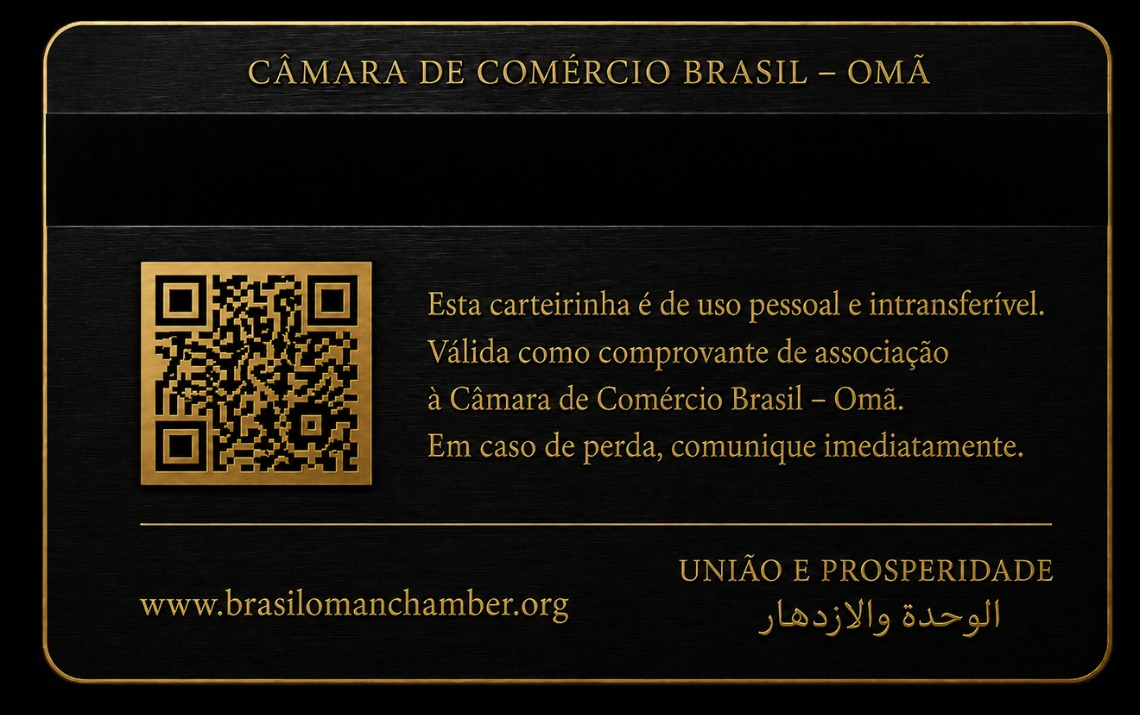
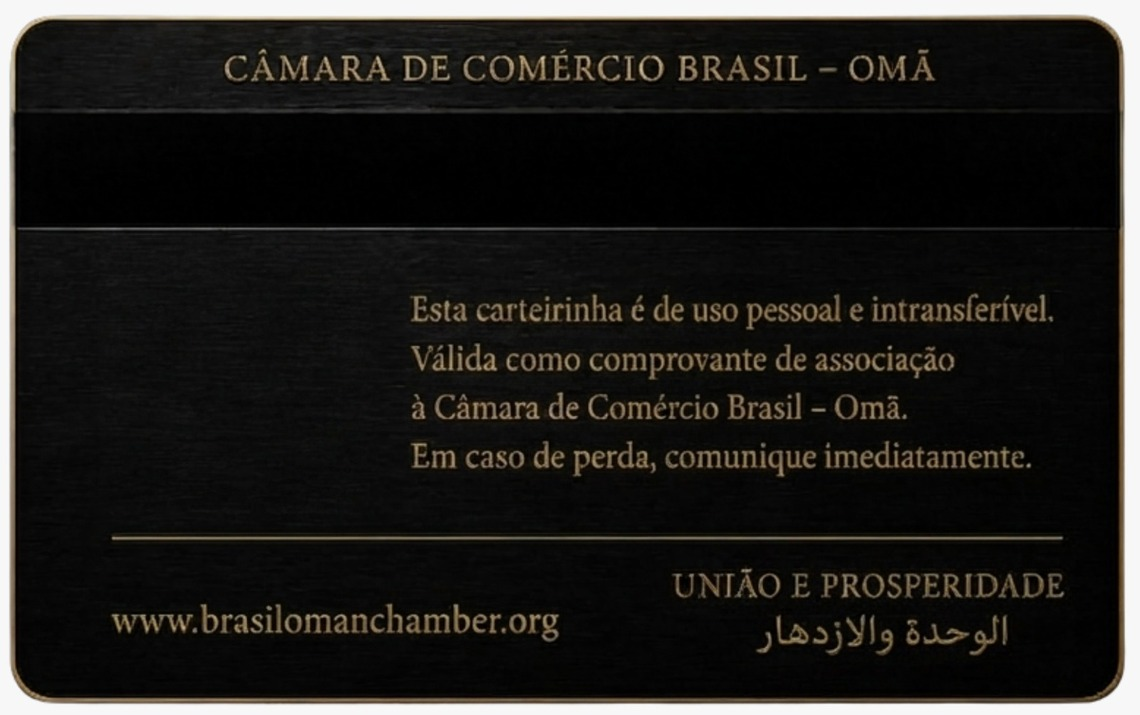
Organiza o cartão digital: verso novo (sem QR de exemplo), texto da frente menor e em preto, e corrige QR sumindo na prévia do certificado
- Novo verso dos 3 cartões (Gold/Black/Platinum) — arte sem QR code de
  exemplo embutido, elimina o "cartão fantasma" aparecendo atrás do QR
  real
- QR real agora sobreposto sobre um patch branco dedicado, com caixa
  ligeiramente menor que o patch (sem depender de padding em %, que
  causou o mesmo bug de "sumir" já visto no certificado)
- "2026" e "Nº do associado" na frente do cartão: fonte bem menor
  (estava gigante) e cor preta no Gold e Platinum, imitando o relevo
  gravado do metal (Black mantém o dourado claro)
- Corrige o mesmo bug de padding-em-% no QR da prévia do certificado
  (estava zerando a área da imagem e o QR não aparecia)

Testado no app real (servidor + associado de teste com número no
formato antigo) — frente, verso e certificado conferidos visualmente.

diff --git a/src/app/globals.css b/src/app/globals.css
@@ -1364,12 +1364,13 @@ a.eco-cta:hover { background: rgba(201, 164, 90, 0.1); border-color: var(--gold)
   position: absolute; display: flex; align-items: center; justify-content: flex-start;
   font-family: var(--font-display); font-weight: 700; white-space: nowrap; line-height: 1;
 }
-.loyalty-card-value-year { font-size: 3.6cqw; }
-.loyalty-card-value-number { font-size: 3.8cqw; }
-.loyalty-card-qr {
-  position: absolute; left: 6.3%; top: 42%; width: 19%; height: 31%;
-  object-fit: contain; border-radius: 4px; background: #fff; padding: 3%;
-}
+.loyalty-card-value-year { font-size: 2cqw; font-weight: 600; }
+.loyalty-card-value-number { font-size: 2cqw; font-weight: 600; }
+.loyalty-card-qr-patch { position: absolute; left: 6.3%; top: 42%; width: 19%; height: 31%; border-radius: 4px; background: #fff; }
+/* Caixa levemente menor que o patch branco, com folga fixa proporcional — não usar
+   padding em %, que é sempre relativo à largura do cartão (não da própria caixa,
+   pequena) e pode reduzir a área útil da imagem a quase zero. */
+.loyalty-card-qr { position: absolute; left: 7.53%; top: 43.96%; width: 16.54%; height: 27.09%; object-fit: contain; }
 .loyalty-card-flip-hint { font-size: 0.76rem; color: var(--fg-dim); text-align: center; margin: 8px 0 0; max-width: 420px; }
 
 .loyalty-tier-badge {
@@ -1722,10 +1723,12 @@ a.eco-cta:hover { background: rgba(201, 164, 90, 0.1); border-color: var(--gold)
 .member-cert-value-number { left: 32.35%; width: 16.17%; }
 .member-cert-value-category { left: 51.21%; width: 12.13%; }
 .member-cert-qr-patch { position: absolute; left: 70.89%; top: 70.66%; width: 8.76%; height: 12.26%; background: #fff; }
-.member-cert-qr-img {
-  position: absolute; left: 70.89%; top: 70.66%; width: 8.76%; height: 12.26%;
-  padding: 6%; box-sizing: border-box; object-fit: contain;
-}
+/* Caixa levemente menor que o patch branco (~10px de folga em cada lado no espaço
+   de referência 1484x1060) — NÃO usar padding em %: como padding percentual é
+   sempre relativo à LARGURA do contêiner (não da própria caixa, que aqui já é
+   pequena), qualquer valor razoável "comia" praticamente toda a área da imagem
+   e o QR sumia. */
+.member-cert-qr-img { position: absolute; left: 71.56%; top: 71.6%; width: 7.41%; height: 10.38%; object-fit: contain; }
 
 /* ---------- Eventos / Missões ---------- */
 .dash-event-list { display: flex; flex-direction: column; gap: 4px; }

diff --git a/src/components/MemberDigitalCard.tsx b/src/components/MemberDigitalCard.tsx
@@ -10,11 +10,13 @@ const CARD_ASSETS: Record<LoyaltyTier, { front: string; back: string }> = {
 };
 
 // Cor do texto gravado e da "mancha" que cobre o número/ano de exemplo da arte
-// original, amostradas diretamente de cada cartão.
+// original, amostradas diretamente de cada cartão. Gold e Platinum usam texto
+// preto para imitar o relevo gravado do metal (como "MEMBER SINCE" na própria
+// arte); Black mantém o dourado claro, legível sobre o fundo escuro.
 const TEXT_COLOR: Record<LoyaltyTier, string> = {
-  GOLD: "#f5e6b3",
+  GOLD: "#1a1408",
   BLACK: "#e8dc8a",
-  PLATINUM: "#f5f5f6",
+  PLATINUM: "#1a1a1c",
 };
 const PATCH_COLOR: Record<LoyaltyTier, string> = {
   GOLD: "#b0914f",
@@ -79,8 +81,11 @@ export function MemberDigitalCard({
         )}
 
         {showBack && qrDataUrl && (
-          // eslint-disable-next-line @next/next/no-img-element
-          <img className="loyalty-card-qr" src={qrDataUrl} alt="QR Code de verificação do associado" />
+          <>
+            <span className="loyalty-card-qr-patch" aria-hidden="true" />
+            {/* eslint-disable-next-line @next/next/no-img-element */}
+            <img className="loyalty-card-qr" src={qrDataUrl} alt="QR Code de verificação do associado" />
+          </>
         )}
       </button>
       <p className="loyalty-card-flip-hint">Toque no cartão para ver {showBack ? "a frente" : "o verso"}</p>
